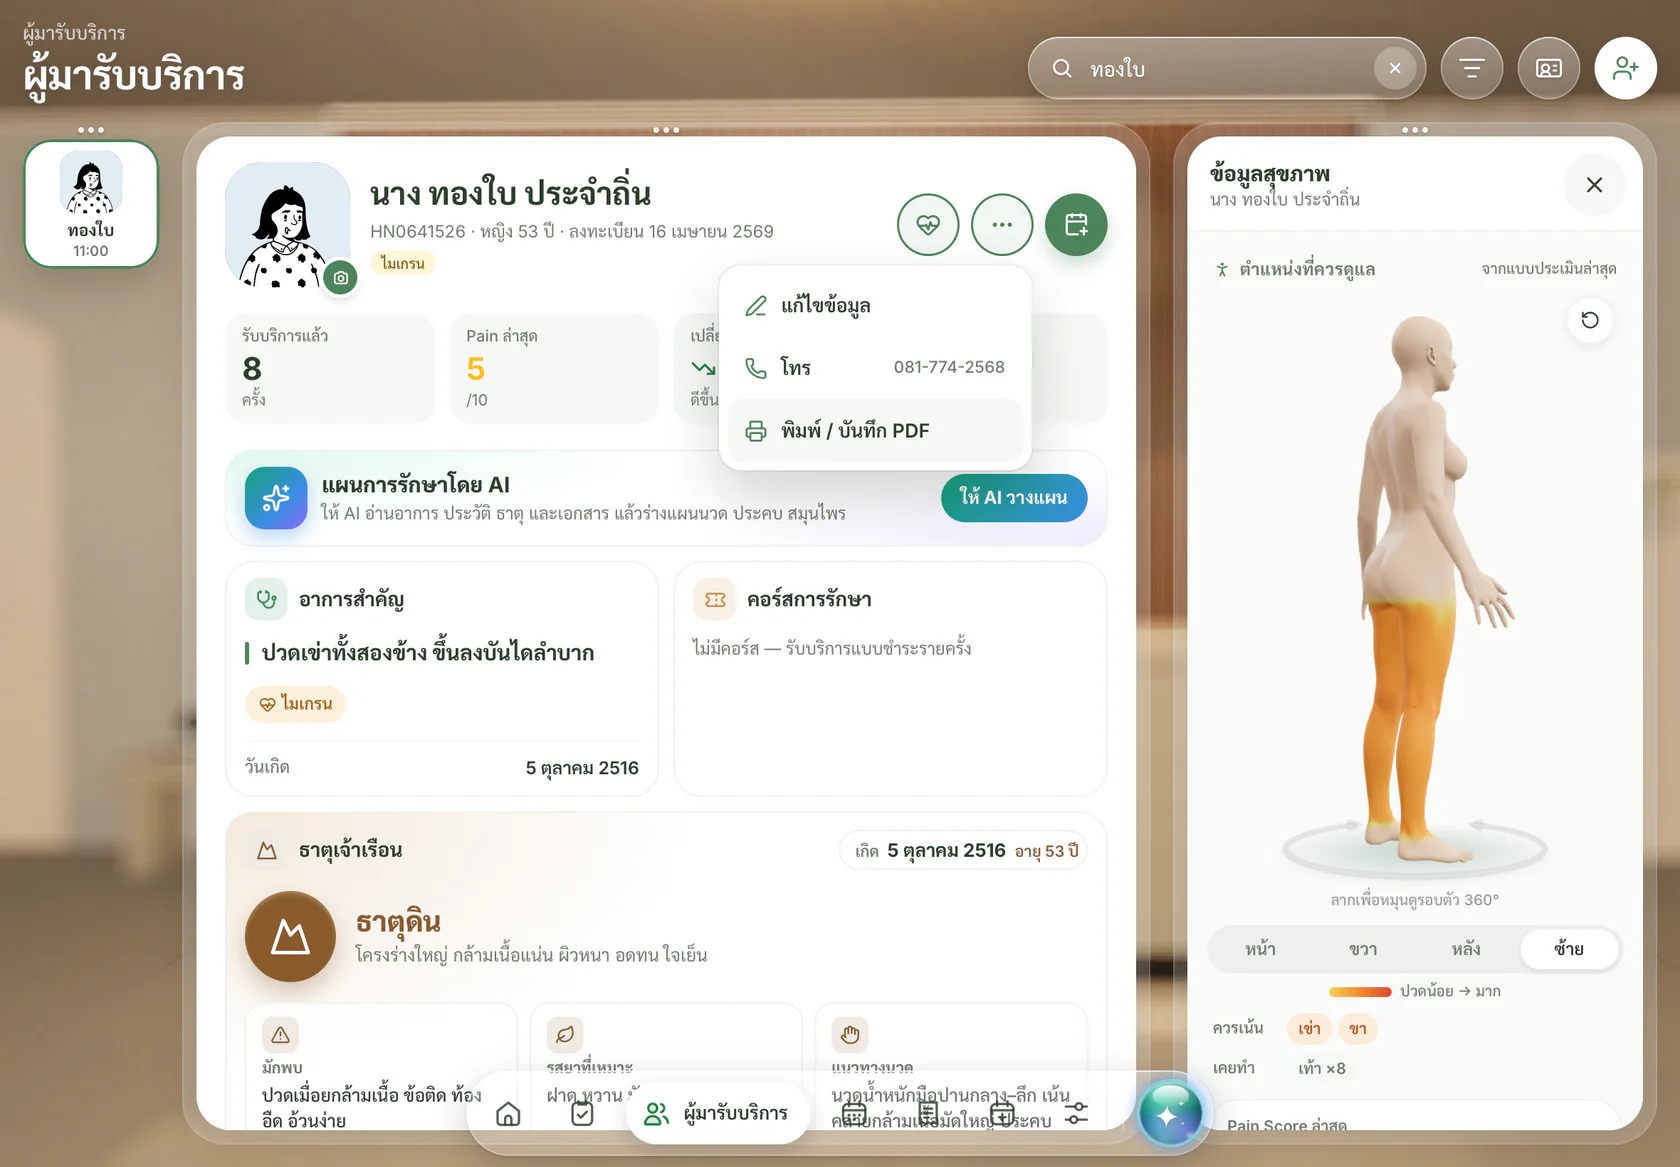
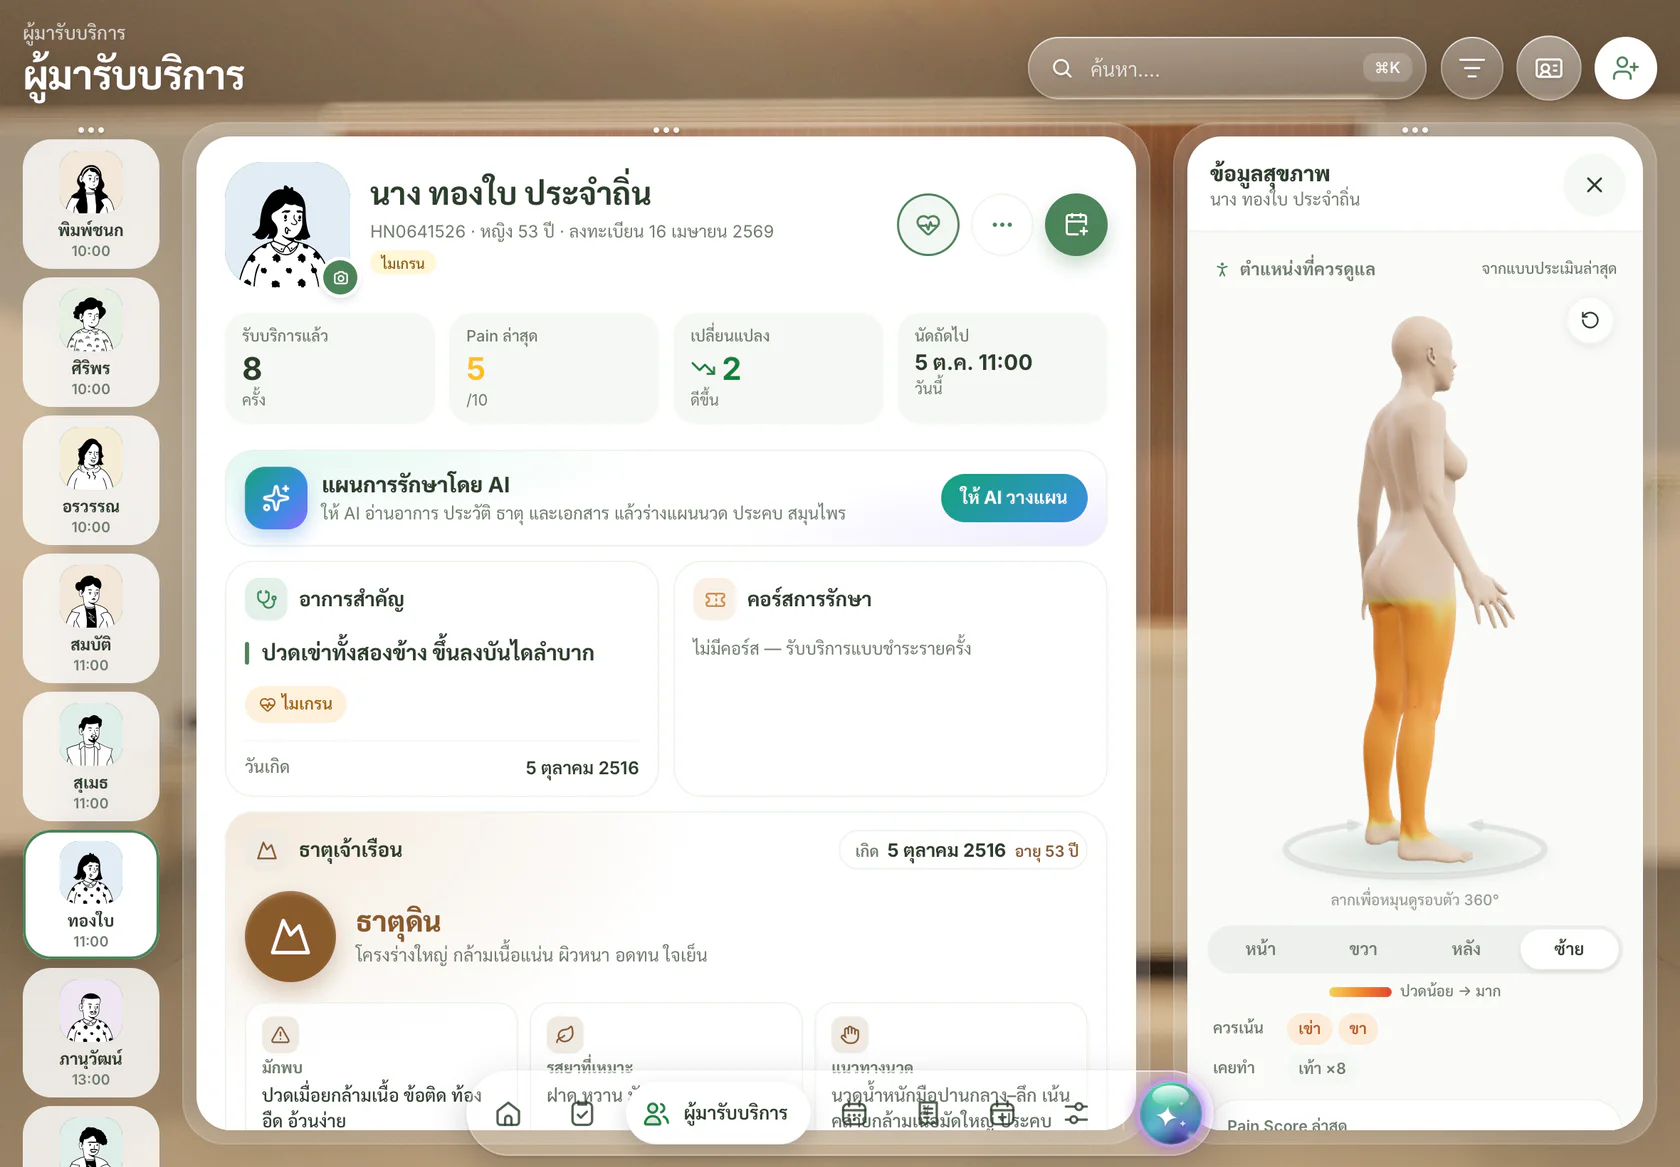
Patient page: upcoming appointments, next-appointment stat and service history open the appointment detail page (back returns to the same patient); manual + guide updated

diff --git a/src/pages/patients/PatientDetail.tsx b/src/pages/patients/PatientDetail.tsx
@@ -1,3 +1,4 @@
+import { useNavigate } from "react-router-dom";
 import type { Appointment } from "../../data/types";
 import { CoursePlanDialog } from "../planner/PatientPlanner";
 import { ScreeningAlert } from "../../features/ScreeningAlert";
@@ -6,7 +7,7 @@ import { CancelDialog } from "../../features/CancelDialog";
 import { usePatientPrint } from "../../features/PatientPrint";
 import { useMemo, useState } from "react";
 import { AnimatePresence, motion } from "framer-motion";
-import { CalendarX2, Printer, Activity, PenLine, CalendarDays, CalendarPlus, Check, HeartPulse, History, Phone, Stethoscope, Ticket, TriangleAlert, TrendingDown, TrendingUp } from "lucide-react";
+import { ChevronRight, CalendarX2, Printer, Activity, PenLine, CalendarDays, CalendarPlus, Check, HeartPulse, History, Phone, Stethoscope, Ticket, TriangleAlert, TrendingDown, TrendingUp } from "lucide-react";
 import { useStore } from "../../store/store";
 import { Badge, Button, EmptyState, ease } from "../../design-system";
 import { stageMeta, creditInfo } from "../../data/domain";
@@ -60,6 +61,12 @@ function PainChart({ points }: { points: { date: string; score: number }[] }) {
 
 export function PatientDetail({ id, onAdd, onEdit, onAIPlan, aiOpen, onHealth, healthOpen }: { id: string | null; onAdd: () => void; onEdit?: () => void; /** opens the AI plan side panel (wide layout) */ onAIPlan?: () => void; aiOpen?: boolean; /** opens the health side panel, like on รับบริการ */ onHealth?: () => void; healthOpen?: boolean }) {
   const store = useStore();
+  const navigate = useNavigate();
+  // remember the open patient so "back" from the appointment page lands on them again
+  const openAppt = (aid: string) => {
+    if (id) navigate(`/patients?id=${id}`, { replace: true });
+    navigate(`/appointments/${aid}`);
+  };
   const [planFor, setPlanFor] = useState<string | null>(null);
   const p = id ? store.patients.find((x) => x.id === id) : undefined;
   const today = todayISO();
@@ -172,7 +179,7 @@ export function PatientDetail({ id, onAdd, onEdit, onAIPlan, aiOpen, onHealth, h
             </b>
             <span>{delta < 0 ? "ดีขึ้น" : delta > 0 ? "แย่ลง" : ""}</span>
           </div>
-          <div className="pd__stat">
+          <div className={upcoming[0] ? "pd__stat is-link" : "pd__stat"} onClick={() => upcoming[0] && openAppt(upcoming[0].id)}>
             <small>นัดถัดไป</small>
             <b className="pd__stat-text">{upcoming[0] ? `${thaiDateShort(upcoming[0].date)} ${upcoming[0].start}` : "—"}</b>
             <span>{upcoming[0] ? relativeDay(upcoming[0].date) : "ยังไม่มีนัด"}</span>
@@ -314,7 +321,7 @@ export function PatientDetail({ id, onAdd, onEdit, onAIPlan, aiOpen, onHealth, h
             {upcoming.length ? (
               <div className="hx-next">
                 {upcoming.slice(0, 5).map((v, k) => (
-                  <div key={v.id} className={k === 0 ? "hx-next__item is-first" : "hx-next__item"}>
+                  <button type="button" key={v.id} className={k === 0 ? "hx-next__item is-first" : "hx-next__item"} onClick={() => openAppt(v.id)}>
                     <span className="hx-next__date">
                       <small>{thaiDateShort(v.date).split(" ")[1]}</small>
                       <b>{Number(v.date.slice(8))}</b>
@@ -326,7 +333,8 @@ export function PatientDetail({ id, onAdd, onEdit, onAIPlan, aiOpen, onHealth, h
                       <small>{store.therapistById(v.therapistId).name}</small>
                     </span>
                     {v.date === today && <em>วันนี้</em>}
-                  </div>
+                    <ChevronRight size={15} className="hx-next__go" />
+                  </button>
                 ))}
               </div>
             ) : (
@@ -344,7 +352,7 @@ export function PatientDetail({ id, onAdd, onEdit, onAIPlan, aiOpen, onHealth, h
             {past.length ? (
               <ol className="hx-hist">
                 {past.map((v) => (
-                  <li key={v.id} className={v.status === "absent" ? "is-absent" : undefined}>
+                  <li key={v.id} className={v.status === "absent" ? "is-absent" : undefined} role="button" tabIndex={0} onClick={() => openAppt(v.id)}>
                     <span className="hx-hist__date">{thaiDateShort(v.date)}</span>
                     <span className="hx-hist__body">
                       <b>{store.serviceById(v.serviceId).short}</b>

diff --git a/src/features/UserGuide.tsx b/src/features/UserGuide.tsx
@@ -46,6 +46,7 @@ const CHAPTERS: { id: string; title: string; color: string; Icon: Icon; intro: s
       { q: "ลงทะเบียนผู้ป่วยใหม่", steps: ["กดไอคอนเพิ่มคนมุมขวาบน", "ขั้น 1 ลงทะเบียน: กด “อ่านบัตร” เพื่อกรอกจากบัตรประชาชน หรือพิมพ์เอง", "ขั้น 2 คัดกรอง: แตะจุดที่ปวดบนหุ่น ตอบคำถามก่อนนวด (ข้ามได้)", "ขั้น 3 สรุป: ตรวจข้อมูลและผลวิเคราะห์ธาตุ แล้วกด “บันทึก”"], tip: "ถ้าเลขบัตรซ้ำกับคนที่มีอยู่ ระบบจะเตือนและพาไปเปิดประวัติเดิม" },
       { q: "เลือกตำแหน่งบนหุ่น 3D", steps: ["ลากเพื่อหมุนดูรอบตัว", "แตะ = จุดที่ปวด (สีส้ม)", "กดค้าง = เมนูห้ามนวด (สีม่วง)", "แตะ × ที่ chip มุมซ้ายบนเพื่อเอาออก"] },
       { q: "ค้นหาผู้ป่วย", steps: ["พิมพ์ชื่อ HN เบอร์โทร หรือเลขบัตรประชาชนในช่องค้นหา", "หรือกดไอคอนบัตรประชาชน แล้วเสียบบัตร ระบบจะเปิดประวัติให้ทันที"] },
+      { q: "ดูนัดที่จะถึงของผู้ป่วย", steps: ["เปิดผู้ป่วย แล้วเลื่อนลงไปที่การ์ด “นัดที่จะถึง”", "แตะนัดเพื่อเปิดหน้ารายละเอียดนัด (เลื่อน / ยกเลิกได้ที่นั่น)", "แตะรายการใน “ประวัติการรับบริการ” เพื่อดูนัดที่ผ่านมา"] },
       { q: "แผนการรักษาโดย AI", steps: ["เปิดผู้ป่วย แล้วกด “ให้ AI วางแผน”", "แนบใบส่งตัวหรือผลตรวจได้ AI จะอ่านประกอบ", "แพทย์แผนไทยตรวจแล้วกด “แพทย์อนุมัติ” → “จองนัดตามแผน”"] },
       { q: "พิมพ์ / บันทึก PDF", steps: ["กดปุ่ม ⋯ ในหัวข้อมูลผู้ป่วย แล้วเลือก “พิมพ์ / บันทึก PDF”", "เลือกเครื่องพิมพ์ หรือ “บันทึกเป็น PDF” / แชร์"] },
       { q: "แก้ไขข้อมูลผู้ป่วย", steps: ["กดปุ่ม ⋯ ในหัวข้อมูลผู้ป่วย แล้วเลือก “แก้ไขข้อมูล”", "แก้ไขได้ทุกขั้นเหมือนตอนลงทะเบียน การแก้ไขจะบันทึกในประวัติการแก้ไข"] },

diff --git a/src/features/PatientDrawer.tsx b/src/features/PatientDrawer.tsx
@@ -1,6 +1,7 @@
+import { useNavigate } from "react-router-dom";
 import { CoursePlanDialog } from "../pages/planner/PatientPlanner";
 import { useMemo, useState } from "react";
-import { ArrowRight, PersonStanding, CalendarDays, CalendarPlus, HeartPulse, History, Phone, Smartphone, Stethoscope, Ticket, TrendingDown, TrendingUp, Check } from "lucide-react";
+import { ChevronRight, ArrowRight, PersonStanding, CalendarDays, CalendarPlus, HeartPulse, History, Phone, Smartphone, Stethoscope, Ticket, TrendingDown, TrendingUp, Check } from "lucide-react";
 import { motion } from "framer-motion";
 import { clsx } from "clsx";
 import { useStore } from "../store/store";
@@ -58,6 +59,7 @@ export function PatientDrawer({ id, onClose }: { id: string | null; onClose: () 
 /** the patient's health summary (อาการ · Pain trend · แผน · นัด · ประวัติ) — drawer and the รับบริการ side box */
 export function PatientHealth({ id }: { id: string }) {
   const store = useStore();
+  const navigate = useNavigate();
   const [planFor, setPlanFor] = useState<string | null>(null);
   const p = store.patientById(id);
   const visits = useMemo(
@@ -323,7 +325,7 @@ export function PatientHealth({ id }: { id: string }) {
       {upcoming.length ? (
         <div className="hx-next">
           {upcoming.slice(0, 4).map((v, k) => (
-            <div key={v.id} className={clsx("hx-next__item", k === 0 && "is-first")}>
+            <button type="button" key={v.id} className={clsx("hx-next__item", k === 0 && "is-first")} onClick={() => navigate(`/appointments/${v.id}`)}>
               <span className="hx-next__date">
                 <small>{thaiDateShort(v.date).split(" ")[1]}</small>
                 <b>{fromISODate(v.date).getDate()}</b>
@@ -335,7 +337,8 @@ export function PatientHealth({ id }: { id: string }) {
                 <small>{store.therapistById(v.therapistId).name}</small>
               </span>
               {v.date === today && <em>วันนี้</em>}
-            </div>
+              <ChevronRight size={15} className="hx-next__go" />
+            </button>
           ))}
         </div>
       ) : (

diff --git a/src/features/health.css b/src/features/health.css
@@ -811,3 +811,35 @@
   align-items: center;
   justify-content: space-between;
 }
+
+/* upcoming / history items open the appointment page */
+button.hx-next__item {
+  width: 100%;
+  text-align: left;
+  cursor: pointer;
+  transition: transform var(--dur-fast) var(--ease-out), box-shadow var(--dur-fast) var(--ease-out);
+}
+button.hx-next__item:active {
+  transform: scale(0.98);
+}
+.hx-next__go {
+  flex-shrink: 0;
+  margin-left: auto;
+  color: var(--color-text-muted);
+}
+.hx-next__item em + .hx-next__go {
+  margin-left: 6px;
+}
+.hx-hist li[role="button"] {
+  cursor: pointer;
+  border-radius: 10px;
+}
+.hx-hist li[role="button"]:hover {
+  background: var(--sage-50);
+}
+.pd__stat.is-link {
+  cursor: pointer;
+}
+.pd__stat.is-link:active {
+  transform: scale(0.98);
+}
